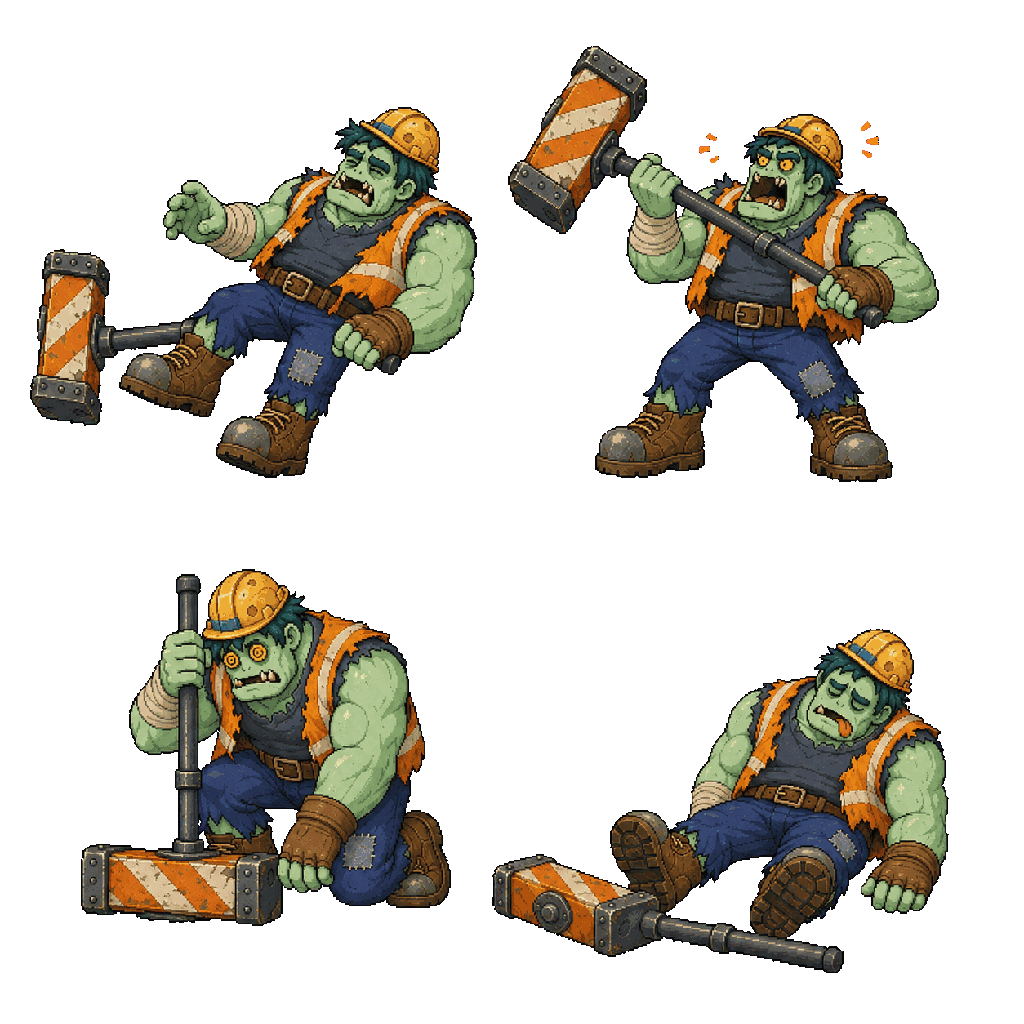
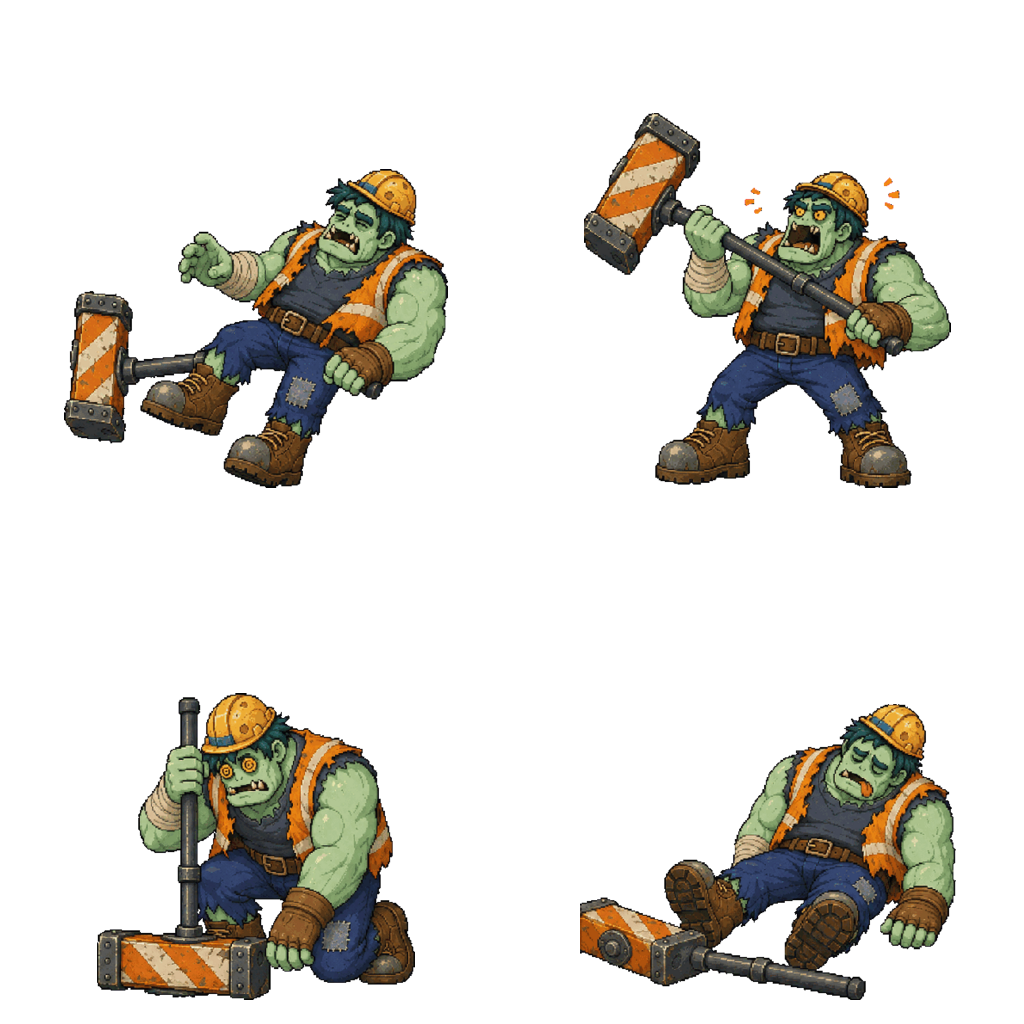
art: normalize Foreman and zombie dog atlases

diff --git a/docs/ASSET_MIGRATION.md b/docs/ASSET_MIGRATION.md
@@ -44,10 +44,10 @@ The source repository `Fishforgithub/tea-line-bot` is read-only. Copy only appro
 | `assets/enemies/umbrella_zombie/idle.png` | Approved umbrella commuter zombie idle sprite from `agent/art-production` commit `cc2f4d7` | Imported and reserved for the next enemy variant |
 | `assets/enemies/umbrella_zombie/walk_sheet.png` | Approved six-frame shield-walk sheet from `agent/art-production` commit `f940a94`; 3x2 cells at 256x256 | Imported and reserved for the umbrella zombie enemy scene |
 | `assets/bosses/stage1_foreman/idle.png` | Approved Stage 1 boss identity anchor from `agent/art-production` commit `05449ea`; 512x512 with bottom-center pivot | Integrated as the Undead Foreman idle presentation |
-| `assets/bosses/stage1_foreman/walk_sheet.png` | Approved four-frame heavy walk from `agent/art-production` commit `6ca9d39`; 2x2 cells at 512x512 | Integrated at 6 FPS; cell-boundary normalization queued as `AR-20260716-005` after clipping/adjacent-frame bleed was found in gameplay |
-| `assets/bosses/stage1_foreman/sweep_sheet.png` | Approved four-frame sweep attack from `agent/art-production` commit `92a11e8`; 2x2 cells at 512x512 | Integrated with a frame-2 hammer hitbox; cell-boundary normalization queued as `AR-20260716-005` |
-| `assets/bosses/stage1_foreman/slam_sheet.png` | Approved four-frame ground slam from `agent/art-production` commit `5345238`; 2x2 cells at 512x512 | Integrated with a frame-2 local impact and twin shockwave event; cell-boundary normalization queued as `AR-20260716-005` |
-| `assets/bosses/stage1_foreman/reaction_sheet.png` | Approved four-pose reaction sheet from `agent/art-production` commit `86fd34c`; 2x2 cells at 512x512 | Integrated for `hurt` and `defeated`, with `rage` and `stunned` reserved; cell-boundary normalization queued as `AR-20260716-005` |
+| `assets/bosses/stage1_foreman/walk_sheet.png` | Approved four-frame heavy walk from `agent/art-production`; normalized in commit `a5a6ee4`; 2x2 cells at 512x512 | Integrated at 6 FPS with shared bottom-center baseline and safe cell margins |
+| `assets/bosses/stage1_foreman/sweep_sheet.png` | Approved four-frame sweep attack from `agent/art-production`; normalized in commit `a5a6ee4`; 2x2 cells at 512x512 | Integrated with a frame-2 hammer hitbox and no adjacent-cell fragments |
+| `assets/bosses/stage1_foreman/slam_sheet.png` | Approved four-frame ground slam from `agent/art-production`; normalized in commit `a5a6ee4`; 2x2 cells at 512x512 | Integrated with a frame-2 local impact, twin shockwave event, and isolated debris |
+| `assets/bosses/stage1_foreman/reaction_sheet.png` | Approved four-pose reaction sheet from `agent/art-production`; normalized in commit `a5a6ee4`; 2x2 cells at 512x512 | Integrated for `hurt` and `defeated`, with `rage` and `stunned` reserved and safe cell margins |
 | `assets/vfx/foreman_shockwave.png` | Four-frame Stage 1 slam shockwave from `agent/art-production` commit `843a02e`; 4x1 cells at 256x256 | Integrated as independently moving left/right Foreman shockwaves with frame-2 damage |
 | `assets/enemies/umbrella_zombie/action_sheet.png` | Three-pose action delivery from `agent/art-production` commit `99dcec9`; attack, hurt, defeated | Imported and reserved for the umbrella zombie scene |
 | `assets/ui/stage1/boss_health_frame.png` | Fixed 640x96 construction-themed overlay from `agent/art-production` commit `e06b862` | Integrated as the fixed overlay around the dynamic Stage 1 boss health fill |
@@ -55,7 +55,7 @@ The source repository `Fishforgithub/tea-line-bot` is read-only. Copy only appro
 | `assets/enemies/zombie_crow/flight_sheet.png` | Six-frame generation derived from the zombie crow identity anchor | User-approved; 3×2 flight loop of 256×256 cells |
 | `assets/enemies/zombie_crow/action_sheet.png` | Three-pose generation derived from the zombie crow identity anchor | User-approved; dive, hurt, and defeated 256×256 cells |
 | `assets/enemies/zombie_dog/idle.png` | Approved original Stage 2 low-runner generation | User-approved; 256×256 transparent zombie dog identity anchor with stylized exposed bone |
-| `assets/enemies/zombie_dog/run_sheet.png` | Six-frame generation derived from the approved zombie dog identity anchor | User-approved; 3×2 sprint loop of 256×256 transparent cells |
+| `assets/enemies/zombie_dog/run_sheet.png` | Six-frame generation derived from the approved zombie dog identity anchor; normalized after engine atlas validation | User-approved repair; 3×2 sprint loop with adjacent-frame fragments removed, shared bottom-center baseline, and at least 12 px transparent margins |
 | `assets/enemies/zombie_dog/action_sheet.png` | Three-pose generation derived from the approved zombie dog identity anchor | User-approved; pounce, hurt, and defeated 256×256 transparent cells |
 | `assets/enemies/zombie_nurse/idle.png` | Approved original Stage 2 support-enemy generation | User-approved; 256×256 transparent zombie nurse identity anchor with bandage-roll loadout |
 | `assets/enemies/zombie_nurse/walk_sheet.png` | Six-frame generation derived from the approved zombie nurse identity anchor | User-approved corrected 3×2 shamble loop with distinct contact, down, and passing poses |

diff --git a/docs/ART_ASSET_MANIFEST.md b/docs/ART_ASSET_MANIFEST.md
@@ -76,6 +76,8 @@ Known delivery defect: `run_sheet.png` has opaque pixels on the shared x=512 bou
 
 Keep the torso collision shape at a stable local offset across the full run cycle; do not move or resize gameplay collision to follow the extended forelegs, hind legs, tail, or exposed ribs. The long airborne stride at frame index 2 is still part of the looping sprint and does not by itself trigger pounce damage.
 
+The run sheet was normalized after engine atlas validation: every 256 x 256 cell is independently contained with at least 12 transparent pixels on every edge, adjacent-frame fragments are removed, and all six poses share one bottom-center baseline. Do not re-trim individual frames during import.
+
 For `pounce`, move the enemy body along a short authored gameplay arc and enable the bite hitbox only during the active overlap window; the pose alone must not deal continuous damage. `hurt` cancels pounce damage and uses backward knockback. `defeated` permanently disables navigation, damage, and collision before holding the collapsed pose for cleanup.
 
 ### Zombie nurse
@@ -198,6 +200,8 @@ Known delivery defect: the current four multi-frame sheets contain opaque conten
 | `assets/bosses/stage1_foreman/reaction_sheet.png` | 2 x 2, four independent 512 x 512 poses | index 0 `hurt`, 1 `rage`, 2 `stunned`, 3 `defeated` | State-selected key poses; do not loop as one animation |
 
 Use separate authored shapes for the boss body, vulnerable area, and road-barrier hammer. Never include the extended hammer in the persistent body hurtbox. Activate weapon hitboxes only during documented attack windows. For `sweep`, frame index 2 owns the wide leftward attack area; frames 0, 1, and 3 must not damage the player. For `slam`, frame index 2 owns the local impact hitbox and spawns one leftward plus one rightward ground shockwave at the hammer contact point. The `rage` pose is the phase-two transition, `stunned` disables attacks and opens the vulnerable window, and `defeated` disables all damage/collision before stage-clear timing. Preserve the bottom-center pivot when switching animations so the large sprite does not jump vertically.
+
+The four Foreman sheets were normalized after engine atlas validation. All poses use one global 86% scale and a shared bottom-center baseline, detached neighboring-cell fragments are removed, and every 512 x 512 cell now has safe transparent margins. Import the documented cell regions directly; do not auto-crop frames independently.
 
 ## Stage 1 environment
 

diff --git a/docs/ART_REQUEST_QUEUE.md b/docs/ART_REQUEST_QUEUE.md
@@ -4,7 +4,7 @@ This queue is the engine-to-art handoff. Every request must follow `docs/ART_ASS
 
 Request IDs use `AR-YYYYMMDD-NNN`. Allowed states are `queued`, `approved`, `in-production`, `delivered`, `validated`, and `integrated`.
 
-## Open requests
+## Requests
 
 ### AR-20260716-001 — Stage result panel
 
@@ -80,7 +80,8 @@ Request IDs use `AR-YYYYMMDD-NNN`. Allowed states are `queued`, `approved`, `in-
 
 ### AR-20260716-005 — Normalize Foreman animation cells
 
-- Status: `queued`
+- Status: `delivered`
+- Delivery commit: `agent/art-production` commit `a5a6ee4`
 - Screen use: Repair the Stage 1 Undead Foreman during walk, sweep, slam, hurt, rage, stunned, and defeated presentation. Current 2 x 2 sheets place opaque pixels across 512 px cell boundaries, causing a clipped hammer/body edge in one frame and detached fragments from the adjacent frame in another.
 - Godot node: `AnimatedSprite2D` at `ForemanBoss/CharacterSprite` in `game/bosses/foreman_boss.tscn`.
 - Output paths:
@@ -109,7 +110,8 @@ Request IDs use `AR-YYYYMMDD-NNN`. Allowed states are `queued`, `approved`, `in-
 
 ### AR-20260719-006 — Normalize zombie dog run cells
 
-- Status: `queued`
+- Status: `delivered`
+- Delivery commit: `agent/art-production` commit `a5a6ee4`
 - Screen use: Repair the Stage 2 zombie dog's six-frame sprint presentation before the enemy is enabled. The current sheet has opaque pixels on the shared x=512 boundary in frames 1 and 2, creating an atlas clipping and adjacent-frame fragment risk.
 - Godot node: Planned `AnimatedSprite2D` at `ZombieDog/CharacterSprite` in `game/enemies/stage2/zombie_dog.tscn`.
 - Output path: `res://assets/enemies/zombie_dog/run_sheet.png`.

diff --git a/docs/ART_PRODUCTION_STATUS.md b/docs/ART_PRODUCTION_STATUS.md
@@ -35,6 +35,8 @@ Stage 2 hospital character production is underway:
 - modular hospital wall, closed-door, open-doorway, and observation-window backgrounds are delivered
 - hospital gurney, IV stand, supply cabinet, and tipped waiting-chair prop set is delivered
 - four-phase electric-puddle corridor hazard is delivered with a documented safe window and active damage frame
+- Foreman walk, sweep, slam, and reaction sheets are user-approved after atlas-cell normalization
+- zombie-dog run sheet is user-approved after adjacent-fragment removal and baseline normalization
 
 ## Stage 1 boss completion
 
